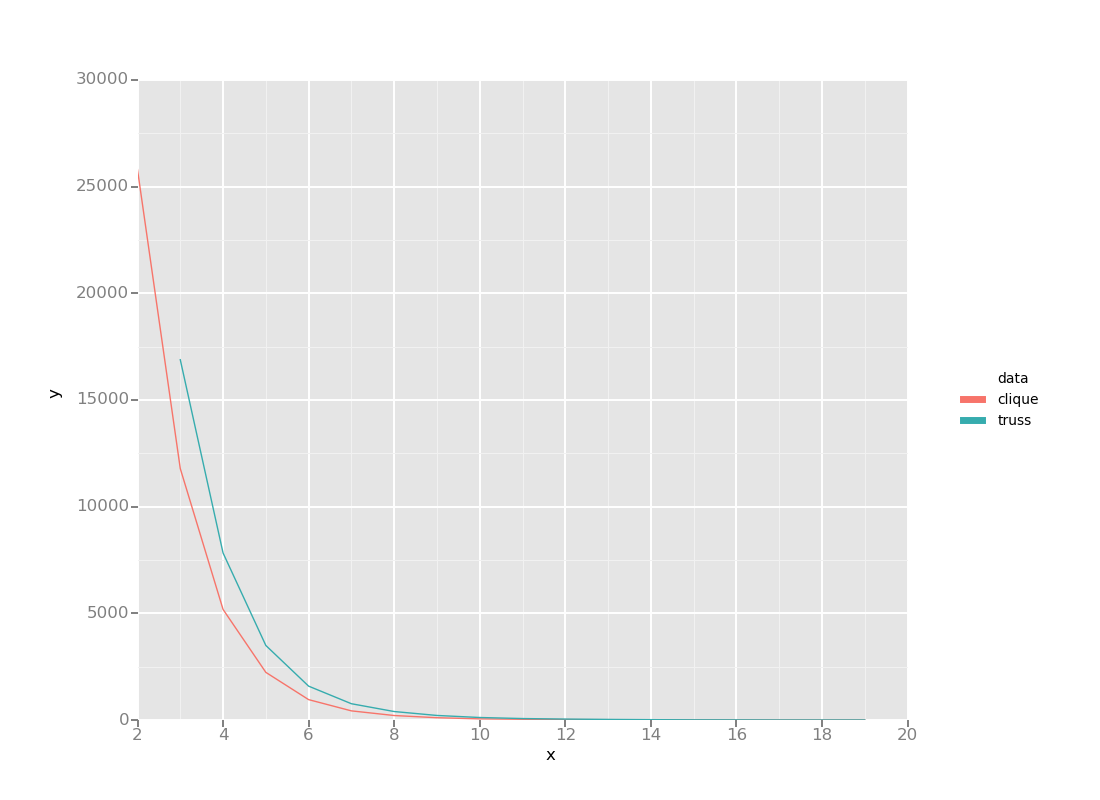
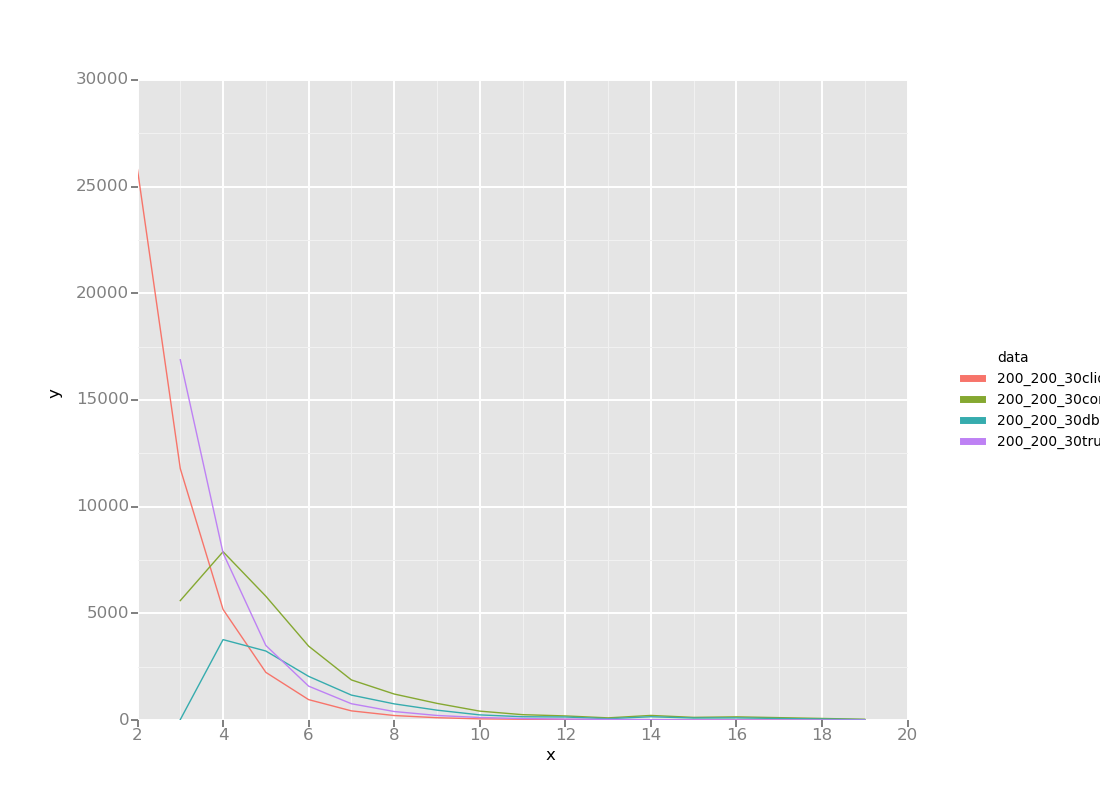
more data

diff --git a/scripts/data_analysis.py b/scripts/data_analysis.py
@@ -189,12 +189,22 @@ class JsonStatsCollections:
         ret = []
         item = self.coll[c].truss
         for i in range(0, len(item['x'])):
-            trip = {'data': 'truss', 'x': item['x'][i], 'y' : item['y'][i]}
+            trip = {'data': self.coll[c].name+'truss', 'x': item['x'][i], 'y' : item['y'][i]}
             ret.append(trip)
 
         item = self.coll[c].clique
         for i in range(0, len(item['x'])):
-            trip = {'data': 'clique', 'x': item['x'][i], 'y' : item['y'][i]}
+            trip = {'data': self.coll[c].name+'clique', 'x': item['x'][i], 'y' : item['y'][i]}
+            ret.append(trip)
+
+        item = self.coll[c].core
+        for i in range(0, len(item['x'])):
+            trip = {'data': self.coll[c].name+'core', 'x': item['x'][i], 'y' : item['y'][i]}
+            ret.append(trip)
+
+        item = self.coll[c].dbscan
+        for i in range(0, len(item['x'])):
+            trip = {'data': self.coll[c].name+'dbscan', 'x': item['x'][i], 'y' : item['y'][i]}
             ret.append(trip)
         return DataFrame(ret)
         
